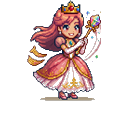
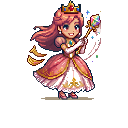
fix: two-step resize for wand sprites (LANCZOS→NEAREST)
Pure LANCZOS made faces too soft, pure NEAREST made them jagged.
Two-step now: LANCZOS to 2x target for smooth color blending, then
NEAREST to final size for crisp pixel-art edges. Best of both
worlds — facial details stay readable but pixels stay sharp.
Cache-bust ?v=4.

Changed region(s): [[0.1875, 0.0, 0.8125, 0.8125], [0.7188, 0.75, 0.75, 0.7812], [0.3125, 0.75, 0.3438, 0.7812]]

diff --git a/index.html b/index.html
@@ -571,8 +571,8 @@ function pixelPrincess(prop){
     // Two-frame wand idle animation (1s per frame) for settings tab
     return '<div class="princess-wrap">'
       +'<div class="princess-wand-stack">'
-      +'<img class="wand-frame f1" src="princess-wand1.png?v=3" alt="공주" draggable="false"/>'
-      +'<img class="wand-frame f2" src="princess-wand2.png?v=3" alt="공주" draggable="false"/>'
+      +'<img class="wand-frame f1" src="princess-wand1.png?v=4" alt="공주" draggable="false"/>'
+      +'<img class="wand-frame f2" src="princess-wand2.png?v=4" alt="공주" draggable="false"/>'
       +'</div>'
       +'</div>';
   }
